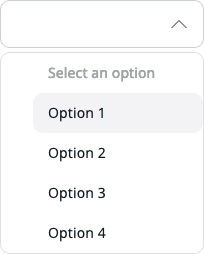
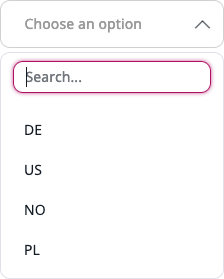
Added drop-down

diff --git a/docs/extending/creating_custom_dropdowns.md b/docs/extending/creating_custom_dropdowns.md
@@ -5,7 +5,7 @@ Follow the steps below to learn how to integrate this component to fit it to you
 
 ## Prepare custom drop-down structure
 
-First prepare the component structure. See the example:
+First prepare the component structure and place it in the template inside the `content` section. See the example:
 
 ```twig
 {% include '@ezdesign/ui/component/dropdown.html.twig' with {
@@ -23,11 +23,9 @@ First prepare the component structure. See the example:
 
 ```
 
-### Generate `<select>` input
+### Create `<select>` input
 
-Next, configure which elements are available for the `<select>` input. See the properties:
-
-- `source` - what is currently set in the "Generate `<select>` input" header:
+Next, set elements which are available for the `<select>` input, for example:
 
 ```twig
 {% set source %}
@@ -39,10 +37,10 @@ Next, configure which elements are available for the `<select>` input. See the p
 </select>
 {% endset %}
 ```
+ 
+ `<select>` input shoud have `ibexa-input` class.
 
- The `<select>` input shoud have class `ibexa-input`.
-
-- `choices` - table with elements showed in the drop-down
+Define `choices`:
 
 ```twig
 {% set choices = [{
@@ -60,7 +58,7 @@ Next, configure which elements are available for the `<select>` input. See the p
 }] %}
 ```
 
-Can have many levels, for example:
+If you need a multilevel `choices`, use the following structure:
 
 ```twig{% set choices = [{
     value: "DE",
@@ -76,15 +74,15 @@ Can have many levels, for example:
     label: "PL",
     choices: [{
         value: "PL_S",
-        label: "Śląski"
+        label: "Silesian"
     }, {
         value: "PL_K",
-        label: "Kaszubski"
+        label: "Kashubian"
     }]
 }] %}
 ```
 
-- `preferred_choices` - the table with elements that appear at the begining of the list and are separated from the rest:
+To set `preferred_choices`, use the following:
 
 ```twig
 {% set preferred_choices = [{
@@ -93,7 +91,7 @@ Can have many levels, for example:
 }] %}
 ```
 
-- `value` - the currently selected element, this is an object with the key `value`:
+For `value`, see the example:
 
 ```twig
 {% set value = [{
@@ -102,60 +100,27 @@ Can have many levels, for example:
 }] %}
 ```
 
-- `multiple` - boolean, available values: true/false, If you want to allow users to pick multiple items from a list, add the `multiple` attribute to the same element.
+You can configure the following attributes:
 
-!!! caution
+Name|Values|Definition|
+|---|------|----------|
+|`source`| - |What is currently defined in the `<select>` input header.|
+|`choices`| - |Elements listed in the drop-down.|
+|`preferred_choices`|Elements listed at the top of the list with a separator.|
+|`value`|-|The currently selected element.It is an object with a key `value`. |
+|`multiple`| true</br>false|Boolean. To allow users to select multiple items, add this attribute to the same element.|
+|`translation_domain`|true</br>false|Used for translating choices and placeholder.|
+|`custom_form`|true</br>false|For custom form must be set to true.|
+|`class`| - |Additional classes for the element with `ibexa-dropdown` class.|
+`placeholder`|Displayed placeholder when no option is selected.|
+|`custom_init`|true</br>false|By default set to `false`. If set to `true`, requires to manually initialize drop-down in the JavaScript.|
 
-    Do not remove `select` input. Removing it would break the functionality of any submission form.
+![Dropd-own expanded state](img/dropdown_expanded_state.png)
 
-![Dropdown expanded state](img/dropdown_expanded_state.png)
-
-<!-- ## Generate `<select>` input
-
-Next step is generating a standard select input with the `ibexa-dropdown__select` CSS class added to the `<select>` element.
-This element should contain at least one additional attribute: `hidden`. 
-If you want to allow users to pick multiple items from a list, add the `multiple` attribute to the same element.
-
-Example:
-
-```html
-    <select class="ibexa-input"> hidden multiple></select>
-``` -->
-
-![Dropdown multiple selection](img/dropdown_multiple_selection.jpg)
-
-<!-- ## Add attributes
-
-Next, look into the `data-value` attribute in the code above (line 11 and 12) to duplicated options with the CSS class: `ibexa-dropdown__item`.
-It stores a value of an option from a select input.
-
-You can provide placeholder text for your custom dropdown. To do so:
-
-- put a `data-value` attribute with no value `data-value=""`
-- add a `disabled` attribute to the item in the duplicated list of options 
-
-It will make it un-clickable.
-
-Example:  
- 
-```html
-<li data-value="" class="ibexa-dropdown__item" disabled>Select an option</li>
-<li data-value="1" class="ibexa-dropdown__item">Option 1</li> -->
-```
-
-- `translation_domain` - used for translating choices and placeholder, transfers the translations domain
-
-- `custom_form` - in case of a custom form, a true value must be set, default by true
-
-- `class` - additional classes for the element with `ibexa-dropdown` class
-
-- `placeholder` - displayed placeholder when no option is selected
-
-- `custom_init` - by default set to `false`. If set to `true`, you will have to manually initialize a drop-down in the JSCo code to JS code. out-of-the-box does not require any actions.
 
 ## Initialize
 
-All drop-downs are searched and initialized in `admin.dropdown.js`. However, if you want to extend it or make some modifications, run the following JavaScript code:
+All drop-downs are searched and initialized automatically in `admin.dropdown.js`. However, if you want to extend it or make some modifications, run the following JavaScript code:
 
 ```javascript
 (function (global, document) {
@@ -183,10 +148,3 @@ Full list of options:
 |`itemsContainer`|Contains a reference to a duplicated items container.|required|
 |`hasDefaultSelection`|Contains a boolean value. If set to `true` the first option will be selected as a placeholder or selected value.|optional|
 |`selectedItemTemplate`|Contains a literal template string with placeholders for `value` and `label` data.|optional|
-
-In the code samples provided above you will find 4 of 5 configuration options.
-Default template HTML code structure for missing `selectedItemTemplate` looks like this:
-
-```html
-    <li class="ibexa-dropdown__selected-item" data-value="{{value}}">{{label}}<span class="${CLASS_REMOVE_SELECTION}"></span></li>
-```
